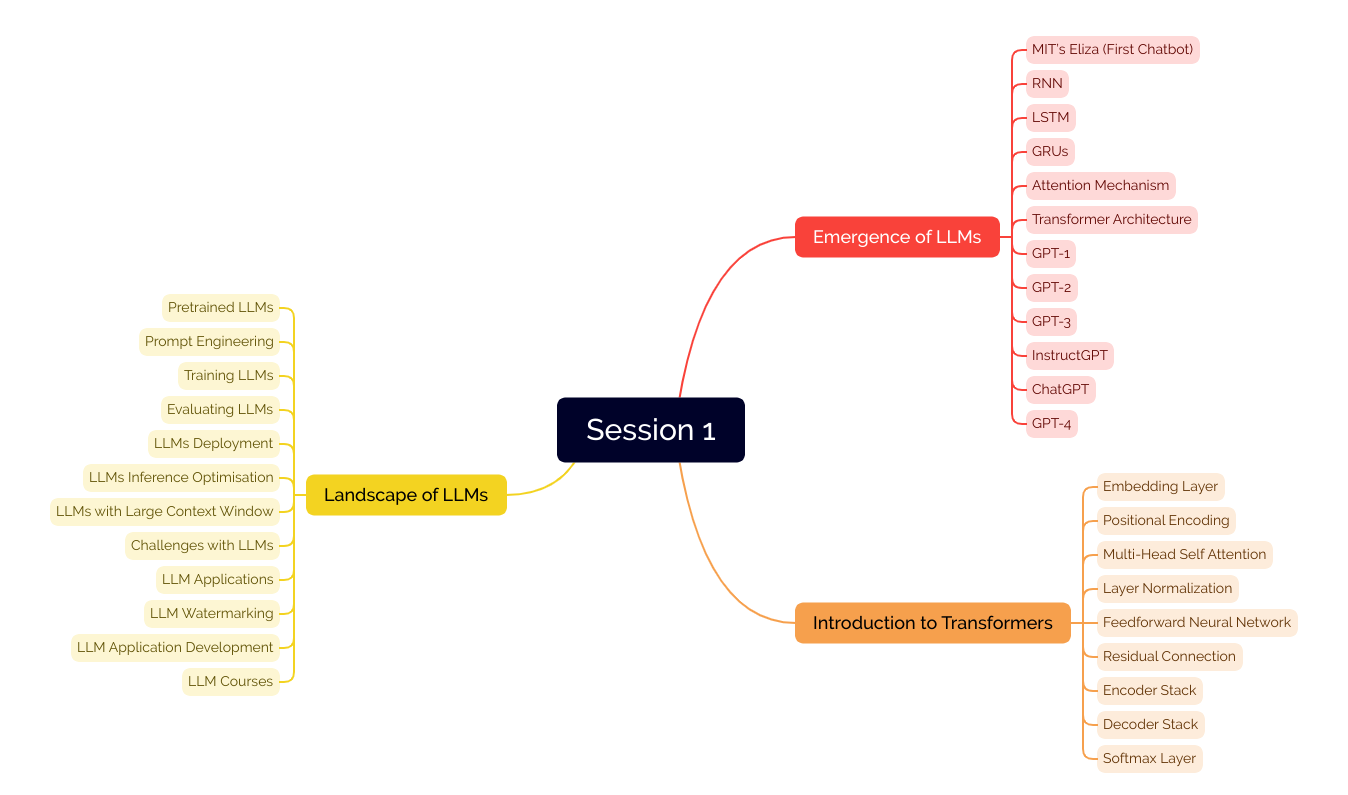
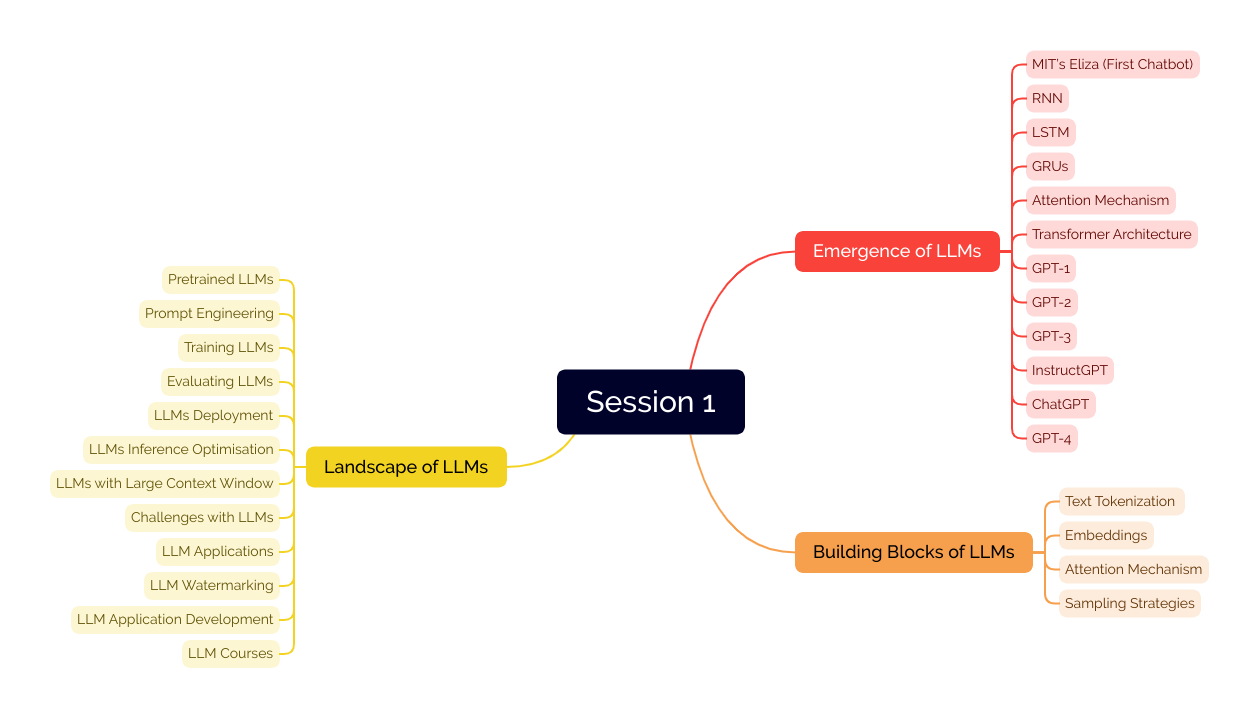
update session 1 image

Changed region(s): [[0.5576, 0.0299, 0.9603, 0.9872], [0.031, 0.359, 0.4337, 0.9573], [0.4027, 0.4786, 0.6195, 0.6581]]

diff --git a/session_1/README.md b/session_1/README.md
@@ -9,8 +9,10 @@ This session is aimed to help:
 
 ## Outline
 
-* Part 1: [The Emergence of LLMs](part_1_emergence_of_llms)
-* Part 2: [Building blocks of LLMs](part_2_building_blocks_of_llms)
+![Session 1](../images/home_page/Large%20Language%20Models-session%201.png)
+
+* Part 1: [Emergence of LLMs](part_1_emergence_of_llms)
+* Part 2: [Building Blocks of LLMs](part_2_building_blocks_of_llms)
 * Part 3: [Landscape of LLMs](part_3_landscape_of_llms)
 
 ## Material
